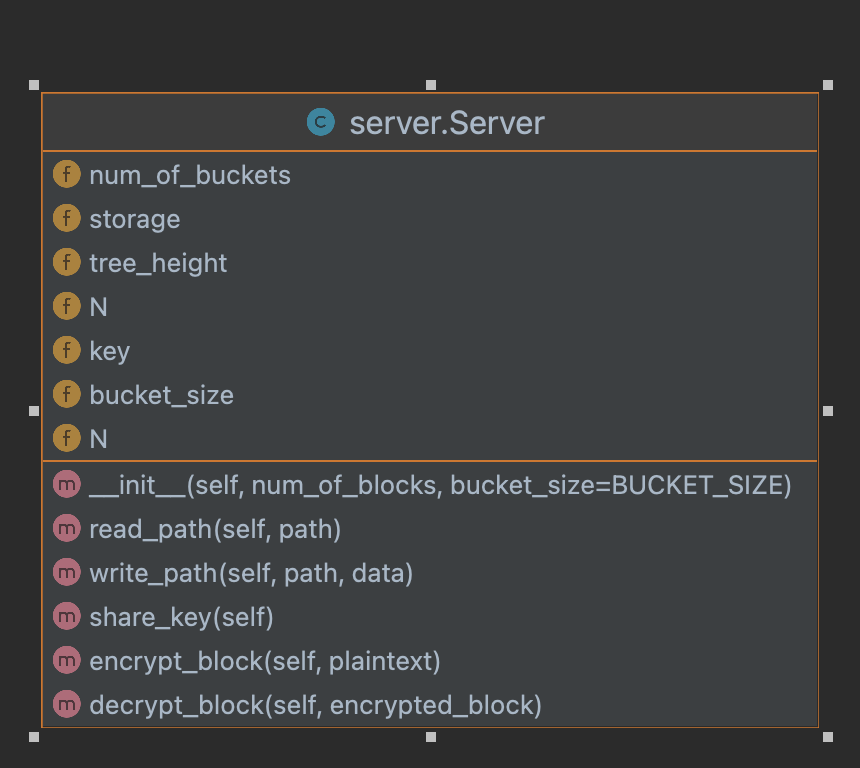
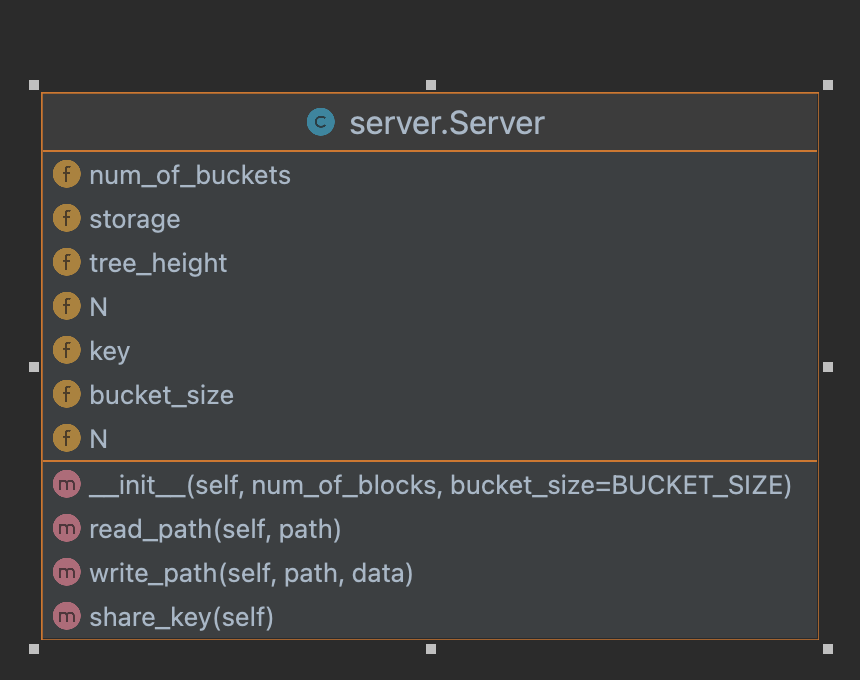
Privacy modifications

Changed region(s): [[0.0302, 0.0926, 0.9674, 0.9574], [0.9372, 0.525, 0.9674, 0.5559]]

diff --git a/server.py b/server.py
@@ -15,7 +15,7 @@ from Crypto.Util.Padding import pad, unpad
 from collections import OrderedDict
 
 DATA_LEN = 4
-BUCKET_SIZE = 4
+BUCKET_SIZE = 16
 
 
 class Server():
@@ -31,30 +31,26 @@ class Server():
         # The Storage is implemented as a list but functionally acts like a binary tree
         self.storage = [[] for _ in range(self.num_of_buckets)]
 
+    # Request from the client to read a path to a leaf from Storage field
     def read_path(self, path):
         data = []
         for bucket_id in path:
             data.extend(self.storage[bucket_id])
         return data
 
+    # Request from the client to update a path to a leaf from Storage field
     def write_path(self, path, data):
         for bucket_id, blocks in zip(path, data):
             self.storage[bucket_id] = blocks
 
+    # Request from the client to get the size of a bucket inside the Storage
+    def get_bucket_size(self, bucket_id):
+        return len(self.storage[bucket_id])
+
+    # Request from the client to append an item to a bucket inside the Storage
+    def add_to_bucket(self, bucket_id, entry):
+        self.storage[bucket_id].append(entry)
+
+    # Request from the client to share a key for encryption
     def share_key(self):
         return self.key
-
-    def encrypt_block(self, plaintext):
-        cipher = AES.new(self.key, AES.MODE_GCM)
-        nonce = cipher.nonce
-        ciphertext, tag = cipher.encrypt_and_digest(plaintext)
-        return base64.b64encode(nonce + tag + ciphertext).decode()
-
-    def decrypt_block(self, encrypted_block):
-        encrypted_data = base64.b64decode(encrypted_block)
-        nonce = encrypted_data[:16]
-        tag = encrypted_data[16:32]
-        ciphertext = encrypted_data[32:]
-        cipher = AES.new(self.key, AES.MODE_GCM, nonce=nonce)
-        plaintext = cipher.decrypt_and_verify(ciphertext, tag)
-        return plaintext

diff --git a/client.py b/client.py
@@ -63,14 +63,17 @@ class Client():
         cipher = AES.new(self.key, AES.MODE_CBC, iv)
         return unpad(cipher.decrypt(ct), AES.block_size).decode()
 
+    # Generate MAC for authentication
     def generate_mac(self, data):
         h = hmac.new(self.key, data, hashlib.sha256)
         return h.digest()
 
+    # Verify given MAC for authentication
     def verify_mac(self, data, mac):
         h = hmac.new(self.key, data, hashlib.sha256)
         return hmac.compare_digest(h.digest(), mac)
 
+    # initialize the Storage for the Server
     def initialize_tree(self):
         for i in range(self.N):
             leaf = self.position_map[i]
@@ -81,8 +84,8 @@ class Client():
             # Try to place the block in the leaf node first
             placed = False
             for bucket_id in reversed(path):
-                if len(self.server.storage[bucket_id]) < self.server.bucket_size:
-                    self.server.storage[bucket_id].append({'id': i, 'data': encrypted_data, 'valid': 0, 'mac': mac})
+                if self.server.get_bucket_size(bucket_id) < self.server.bucket_size:
+                    self.server.add_to_bucket(bucket_id, {'id': i, 'data': encrypted_data, 'valid': 0, 'mac': mac})
                     placed = True
                     break
 
@@ -90,6 +93,8 @@ class Client():
             if not placed:
                 self.stash.append({'id': i, 'data': encrypted_data, 'valid': 0, 'mac': mac})
 
+    # Fine the indexes path inside a binary tree on a way to a leaf
+    # To use on storage inside the server
     def get_path_to_leaf(self, leaf):
         path = []
         idx = leaf + self.server.num_of_buckets // 2

diff --git a/test.py b/test.py
@@ -3,7 +3,6 @@ from main import *
 if __name__ == '__main__':
     error = 0
     num_of_tests = random.randint(10, 100)
-
     print("Starting tests... \n")
 
     for i in range(num_of_tests):
